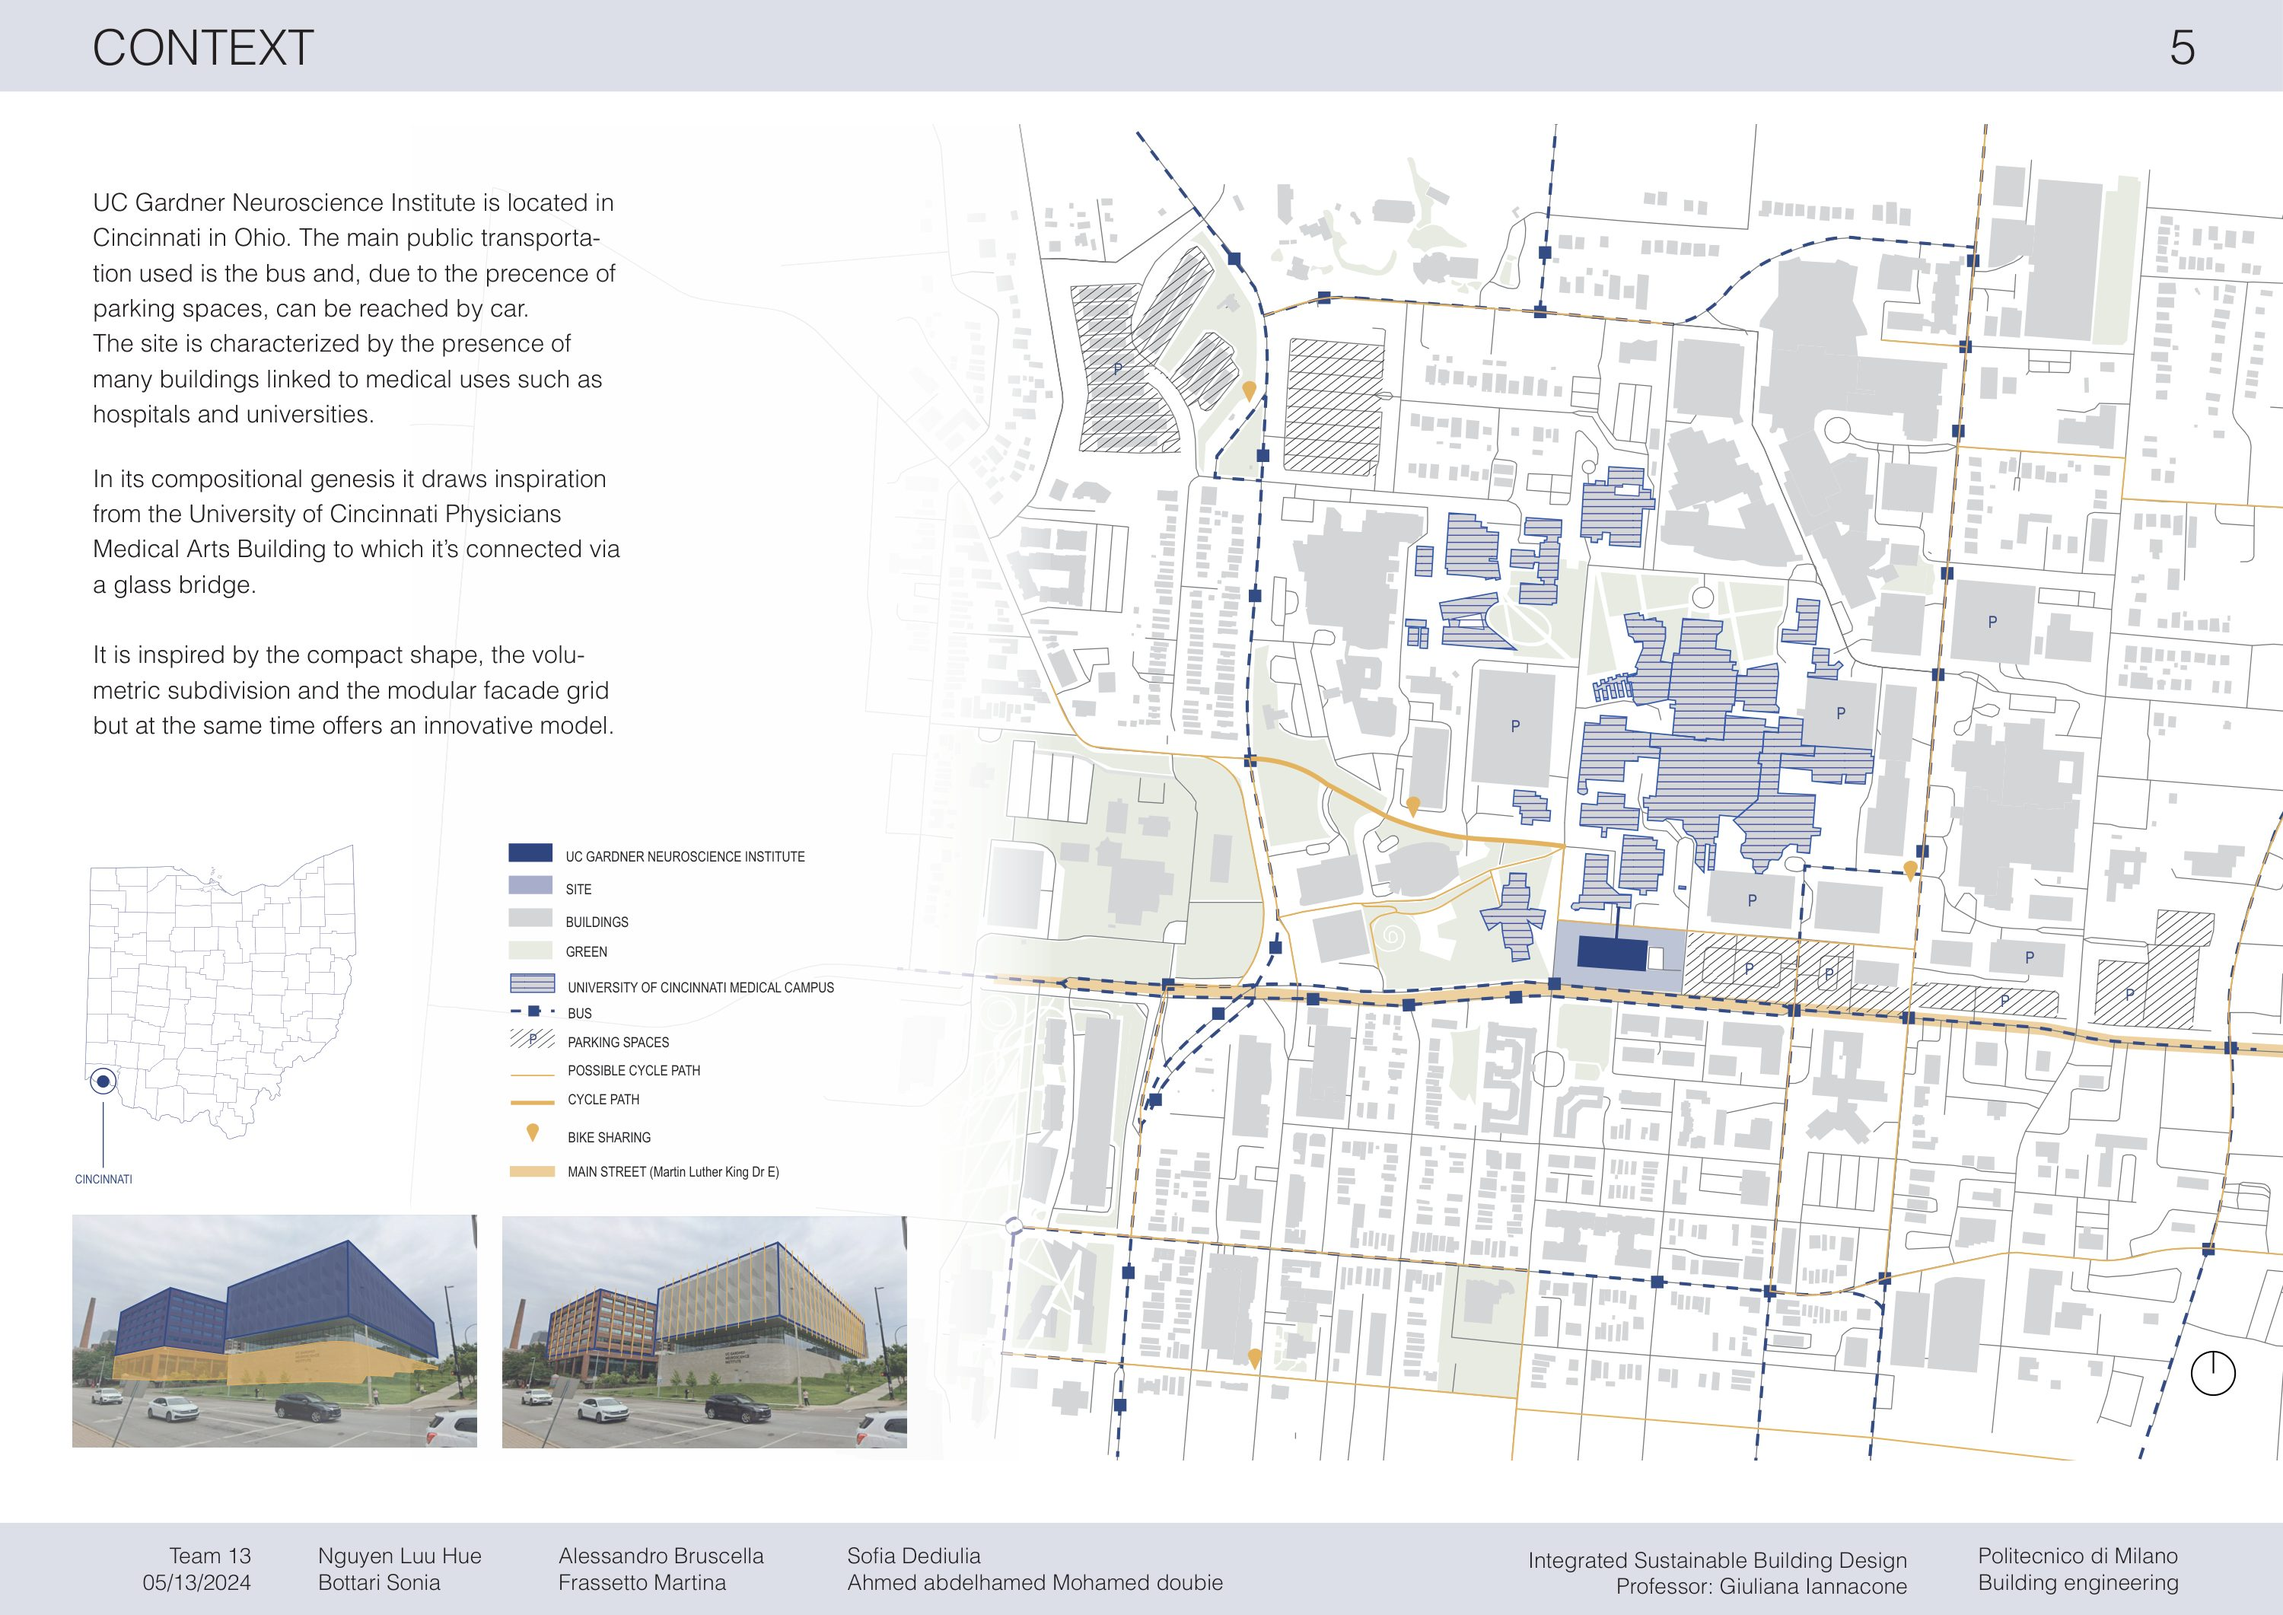
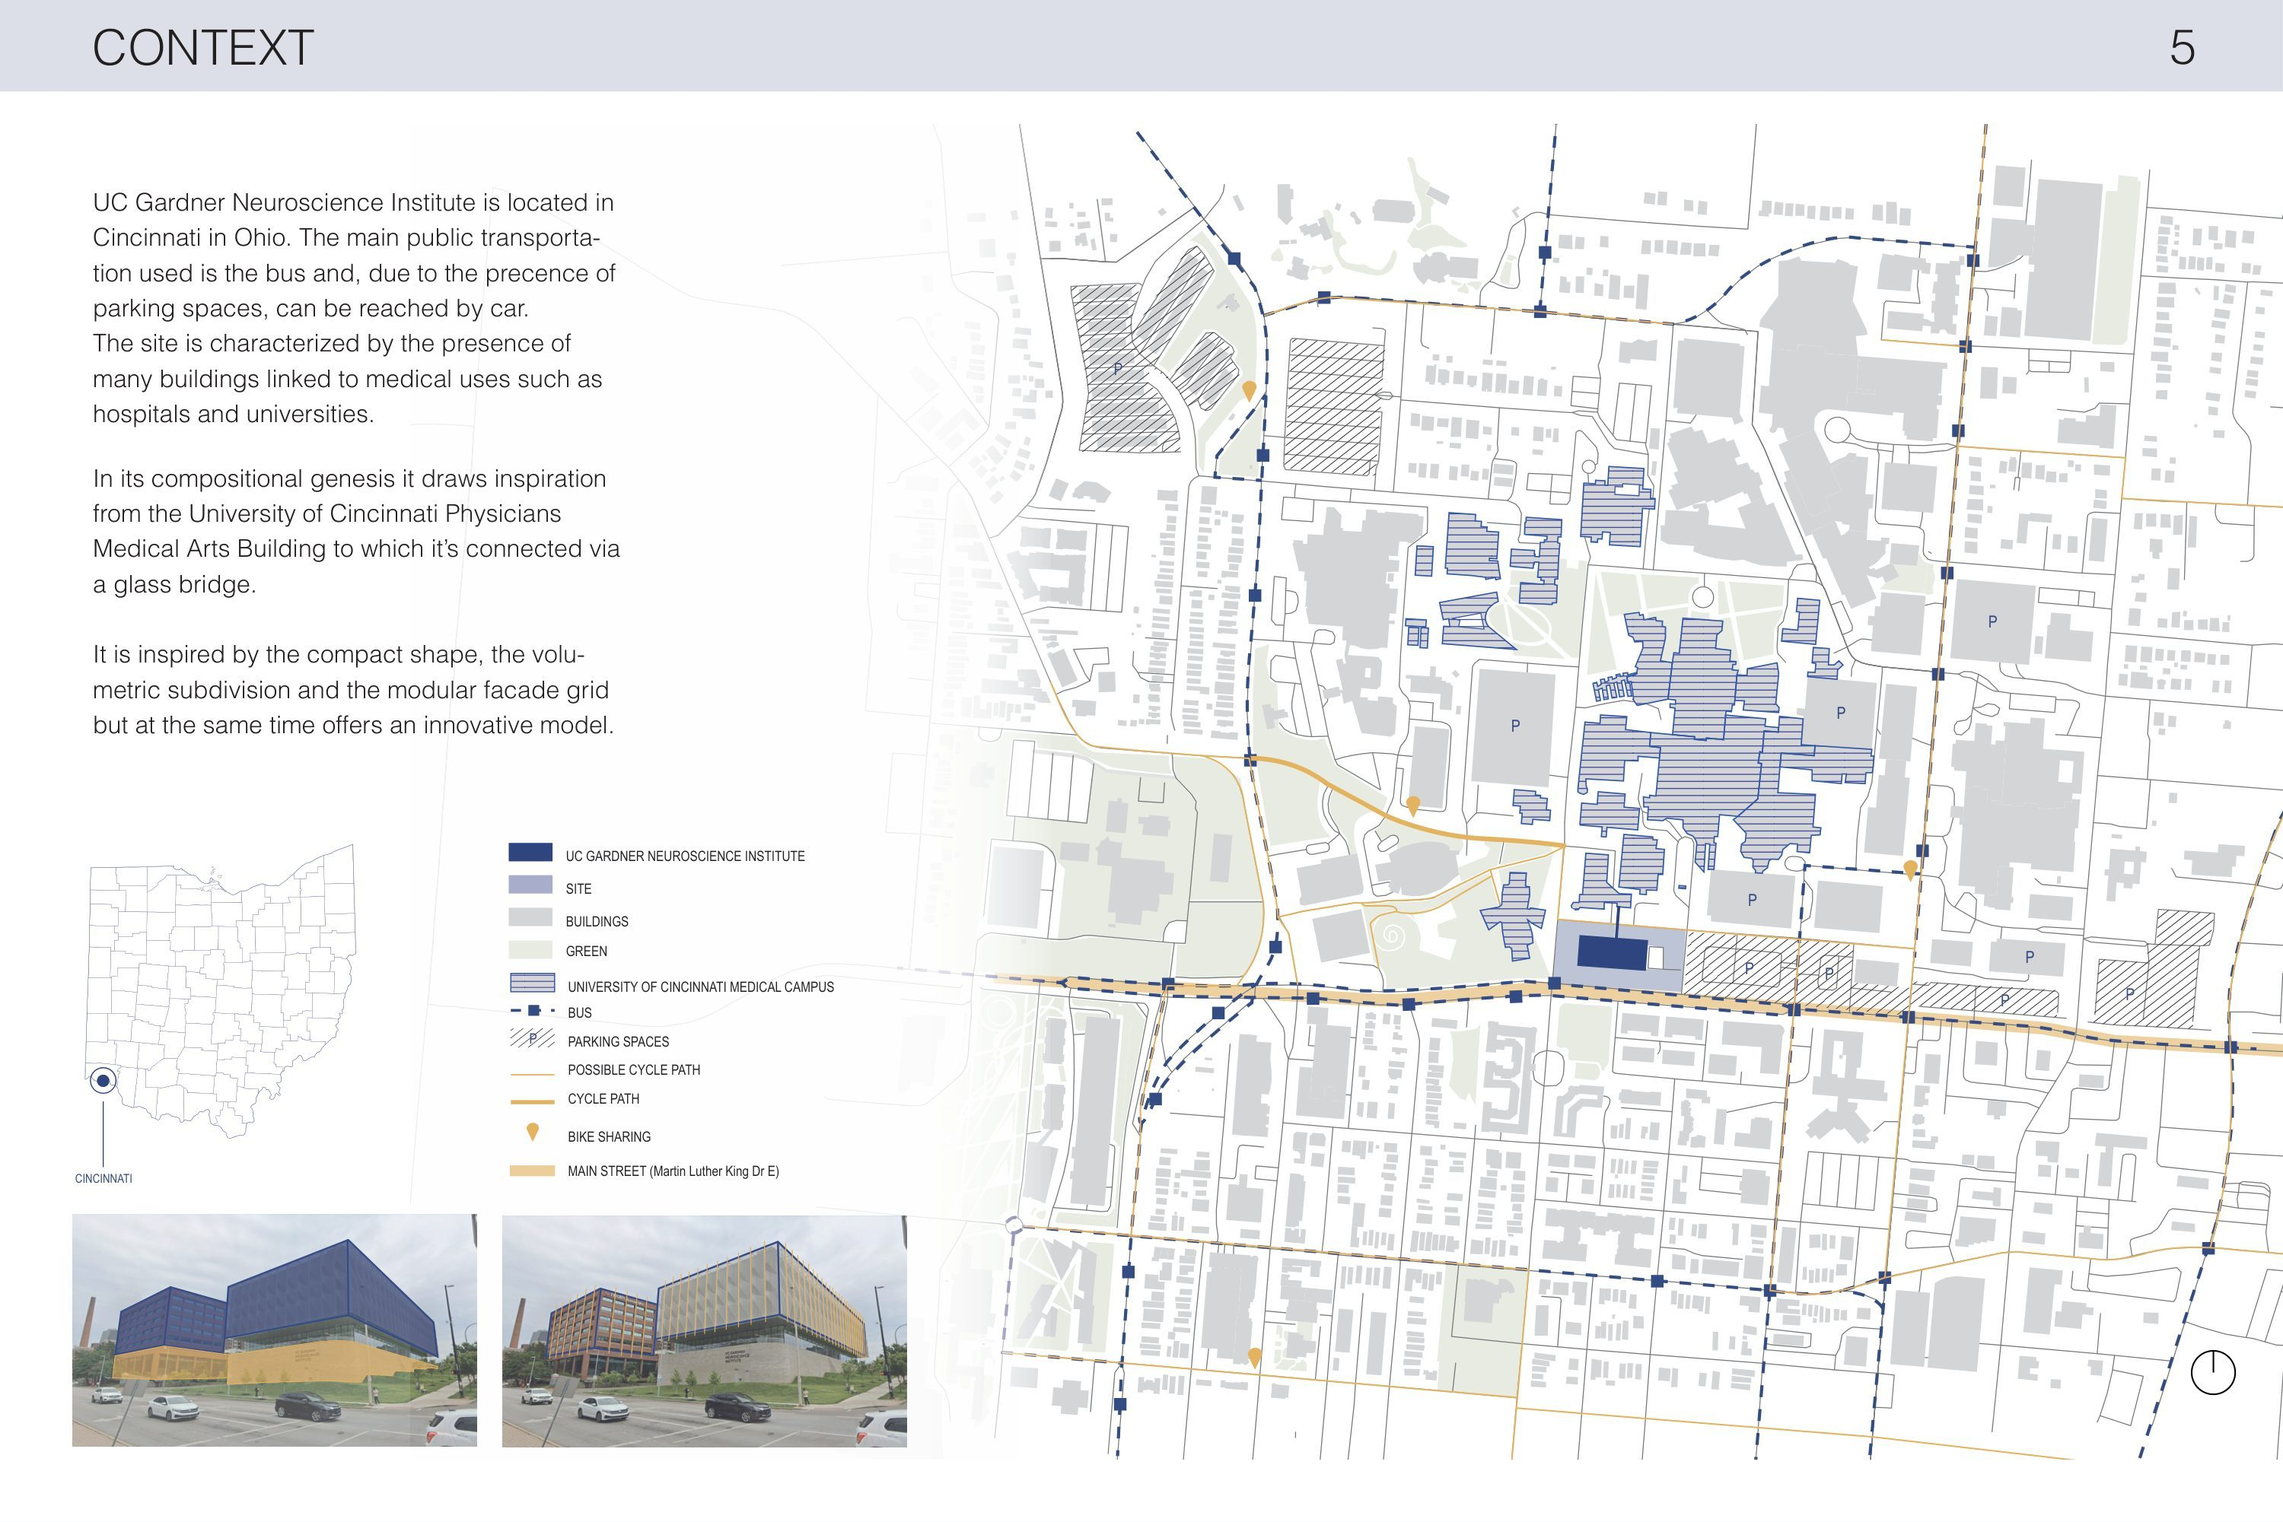
Remove teammate names from group-project boards
- Crop the team-name footer off the Gardner slides and Mills of Gurone boards
- Drop the Gardner title slide, which lists the team members

diff --git a/index.html b/index.html
@@ -522,8 +522,7 @@ var P=[
   meta:[["Type","Technical analysis of an existing building"],["Building","UC Gardner Neuroscience Institute, Cincinnati"],["Scope","Structure, envelope, climate, services"]],
   txt:["A technical case study of a neurological care centre designed around patients with sensory and mobility needs. We analysed its steel structure and bracing, its orientation-based shading envelope and textile mesh second skin, daylight performance by floor, and its HVAC, fresh-air, water and electrical systems, then assessed its sustainability strategies."],
   tags:["Building physics","Envelope","Daylight analysis","HVAC"],
-  boards:1,imgs:[["gn-p01.jpg","Cover: UC Gardner Neuroscience Institute",1],
-["gn-p03.jpg","Project index and building photograph",1],
+  boards:1,imgs:[["gn-p03.jpg","Project index and building photograph",1],
 ["gn-p04.jpg","Design team and patient comfort",1],
 ["gn-p05.jpg","Context: medical campus site plan",1],
 ["gn-p06.jpg","Structure: steel frame and slabs",1],
